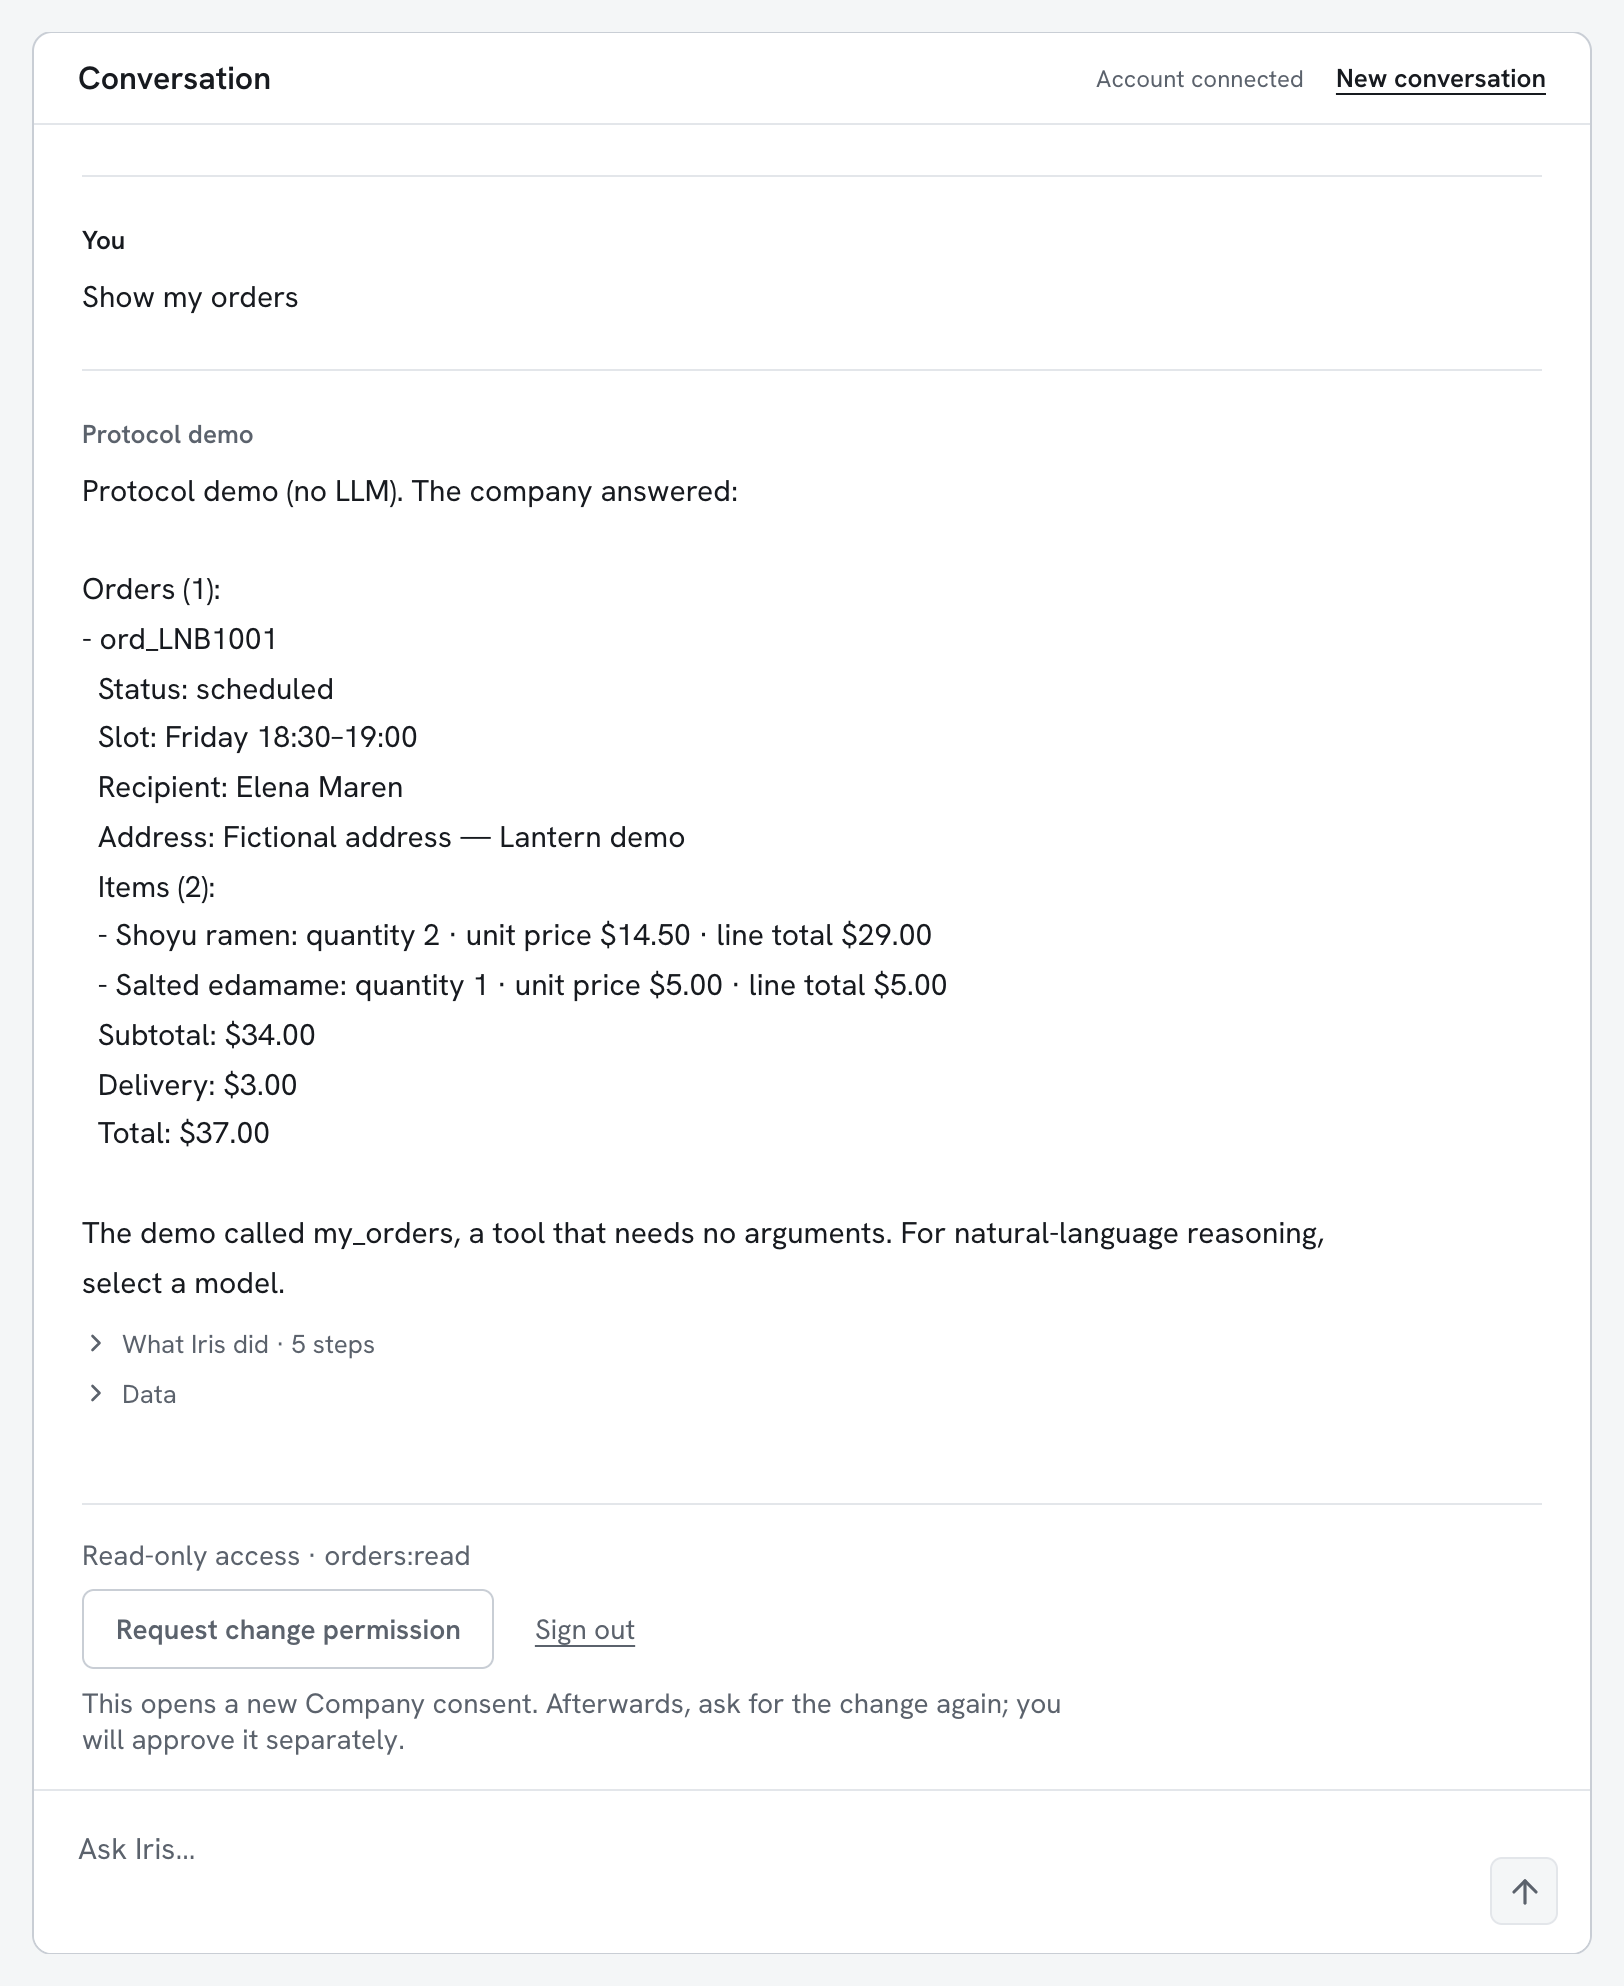
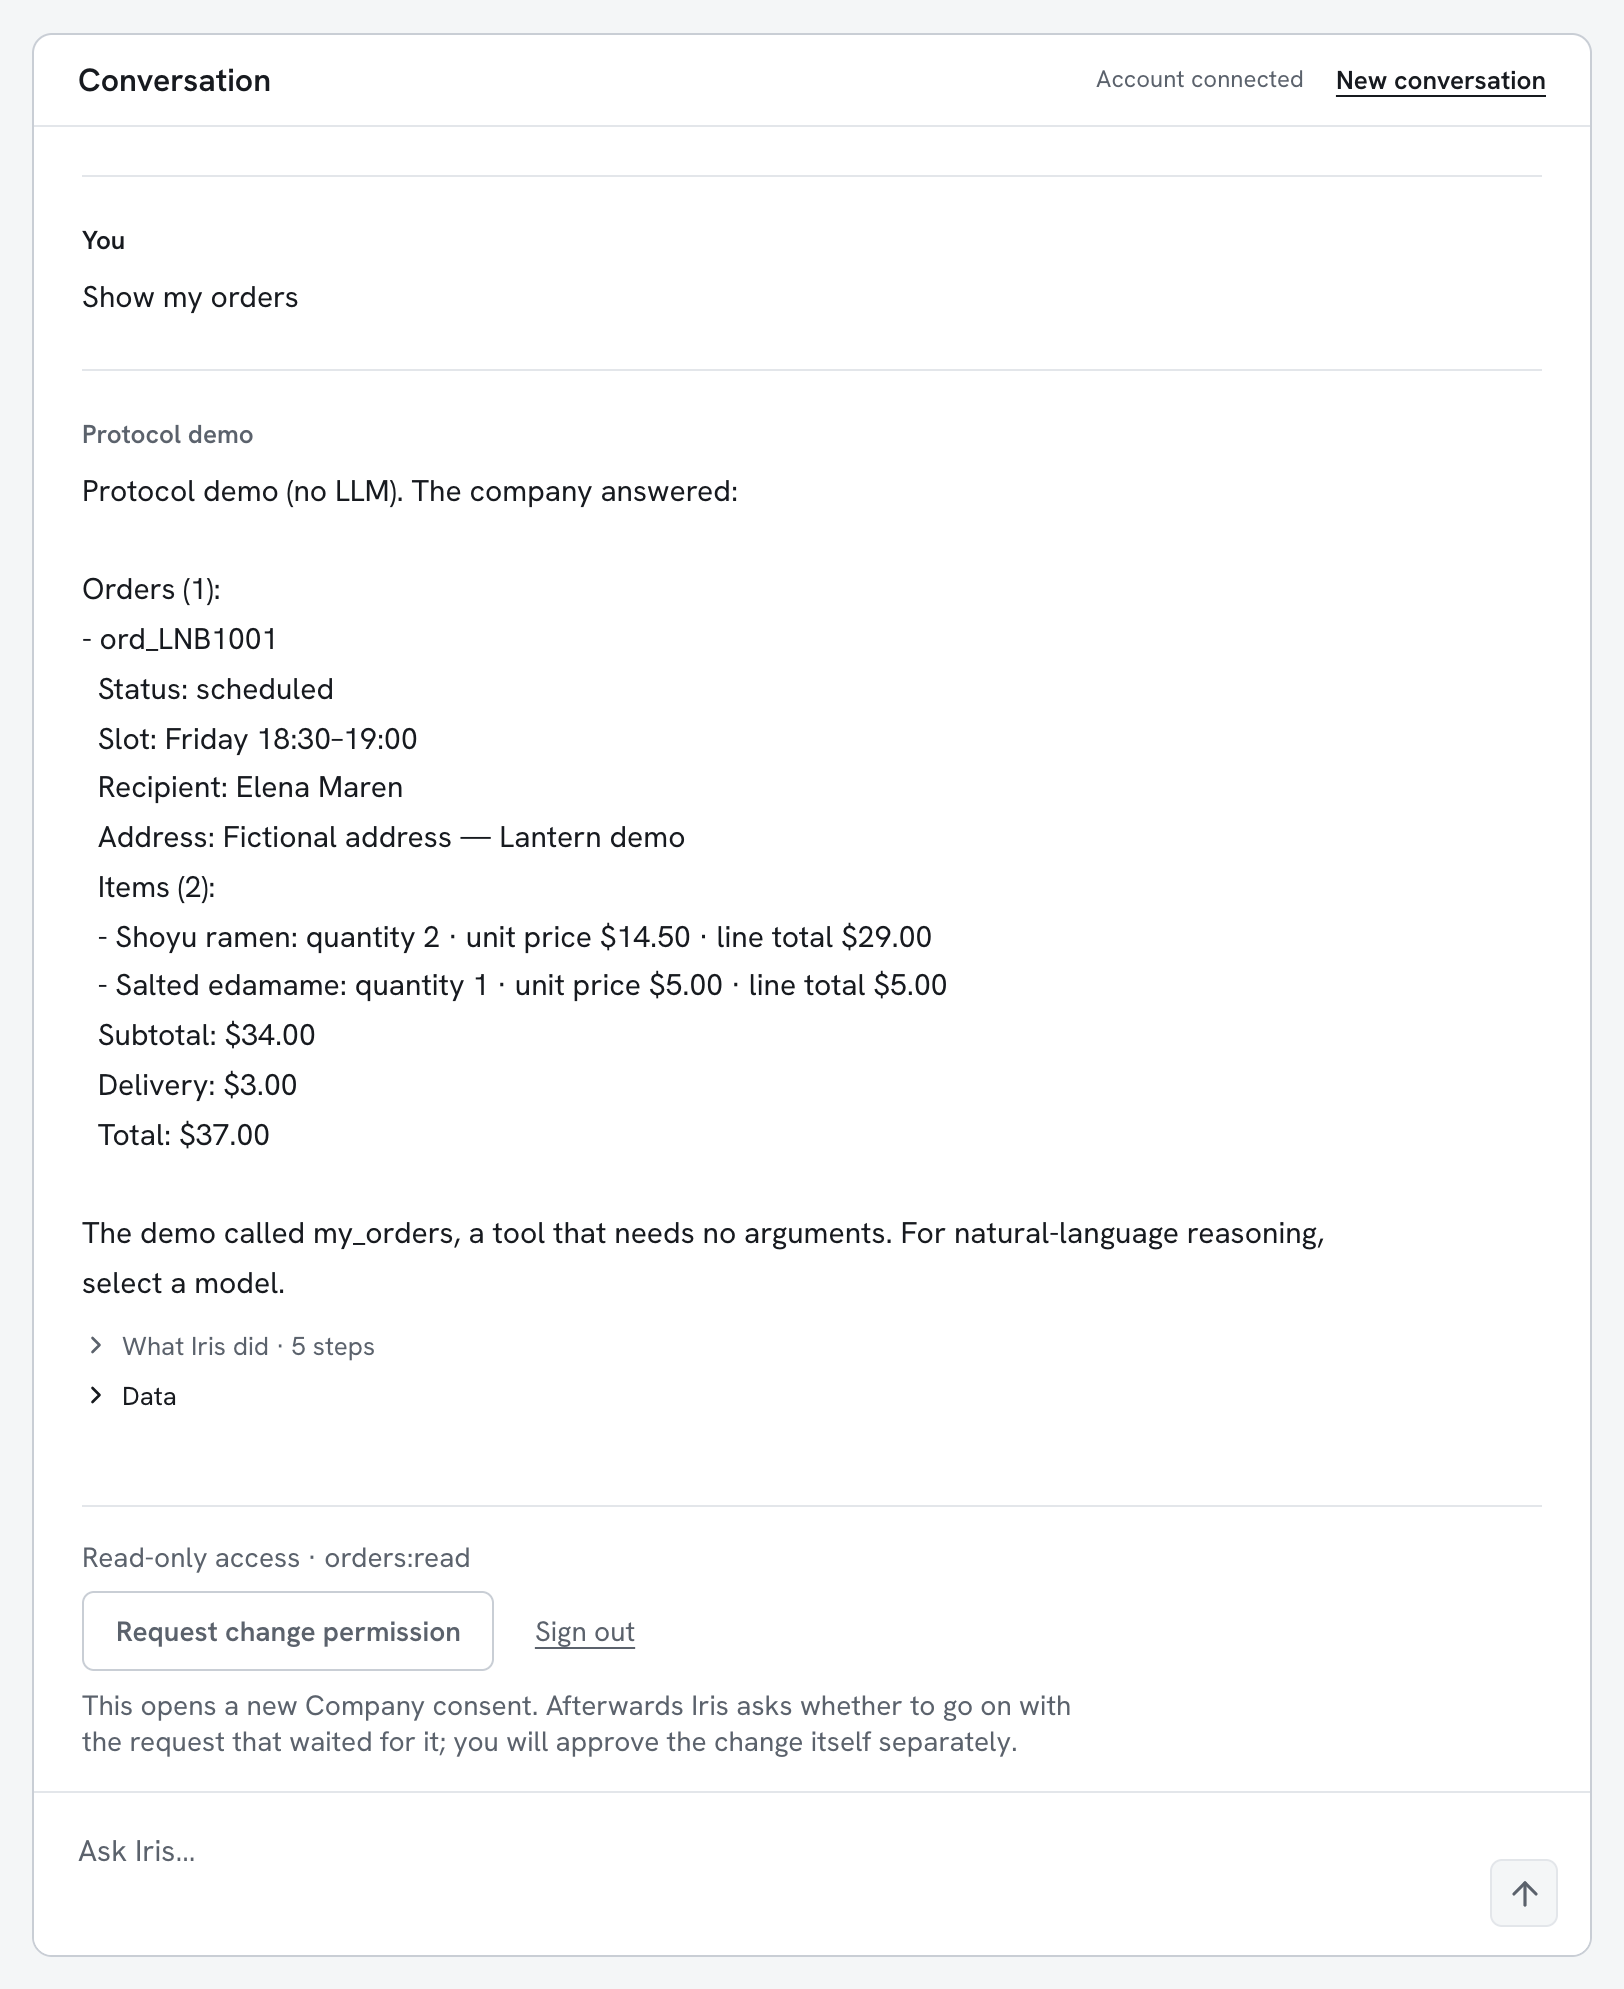
Bring Changing an order into line with production of 27 November
Iris now asks to approve the change in its own words, and Elena can answer yes as well as press Approve; the page says the answer is hers alone, read by fixed words. The steps of the change request start with the Session, and the pick, read and Inspector screenshots are retaken on 27 November. The waiting proposal, its terms and its approval keep their images for now.

diff --git a/docs/learn/how-it-works/changing-an-order.md b/docs/learn/how-it-works/changing-an-order.md
@@ -7,7 +7,8 @@ makes the change after Elena has read the exact terms and approved them, and
 at no point does Iris hold her password or decide for her.
 
 This page follows that request screen by screen, on Iris's side and on
-Lantern's. Every screenshot is from the live lab, taken on 26 November 2026.
+Lantern's. Every screenshot is from the live lab at
+[poppylab.dev](https://poppylab.dev), taken on 26 and 27 November 2026.
 
 ## Who does what
 
@@ -55,9 +56,10 @@ it decided that the menu and the delivery slots are public. Iris has no access
 to her account yet, and the green button under the answer is how she would
 give it.
 
-The lab runs here in demo mode, without an AI model, so the answer is the
-company's data set out as plain lines. With a model connected Iris would
-answer in sentences. The requests to Lantern are the same either way.
+The lab runs here in demo mode, which answers its guided examples without an
+AI model, so the answer is the company's data set out as plain lines. With a
+model connected Iris would answer in sentences. The requests to Lantern are
+the same either way.
 
 <details>
 <summary>What travelled</summary>
@@ -113,7 +115,8 @@ Lantern: one order for Friday evening, 37 dollars.
 
 The line under the answer states what Iris may do at this point: read-only
 access. To change anything Elena has to give a second, separate permission,
-which is what the Request change permission button asks for.
+which is what the Request change permission button asks for. After that
+consent, Iris asks whether to go on with any request that waited for it.
 
 <details>
 <summary>What travelled</summary>
@@ -157,12 +160,18 @@ which dish and which slot she means, and asks Lantern for that change.
 
 Lantern does not make it. It answers that the change needs the customer's
 approval and sends back the terms it would apply. Iris shows them in a panel
-called Needs you.
+called Needs you, and asks in the conversation, in its own words from the
+terms: the new total is 43 dollars, 6 dollars more, the terms expire in ten
+minutes, approve it?
 
 <details>
 <summary>What travelled</summary>
 
 ```text
+Started a Poppy Session, signed in
+Read /poppy/tasks
+Company Agent conversations at https://food-demo.poppylab.dev/poppy/conversations
+Found 5 API tools at the Company
 Read /api/menu
 Read /api/account/orders
 Read /api/delivery-slots
@@ -220,15 +229,16 @@ in step 7, and they stay on Elena's screen until she decides.
 
 ![The proposal is now a finished entry in the conversation. It reads Completed, with Lantern's confirmation that the order was changed and the line Approved by you](../../../apps/playground/public/learn-media/how-it-works/changing-an-order/09-approved.webp "Lantern made the change when the approval arrived, and said so.")
 
-Elena presses Approve. Iris sends Lantern the same request again, this time
-with her approval attached. Lantern checks that the approval matches the
+Elena presses Approve, or answers "yes" to Iris's question. Iris sends
+Lantern the same request again, this time with her approval attached. Lantern checks that the approval matches the
 terms it offered, makes the change and confirms it: the order is now for
 Sunday and costs 43 dollars. The proposal stays in the conversation as a
 finished entry, with Lantern's confirmation and the line "Approved by you."
 
-The approval is something Elena gives by pressing the button. A sentence in
-the conversation cannot stand in for it, whether Elena writes it or the model
-does.
+The approval is something only Elena gives: the button, or her own answer
+to the question Iris asked about these terms. Iris reads that answer by fixed
+words, before any model sees the message. Nothing a model or the company
+writes can stand in for it.
 
 <details>
 <summary>What travelled</summary>
